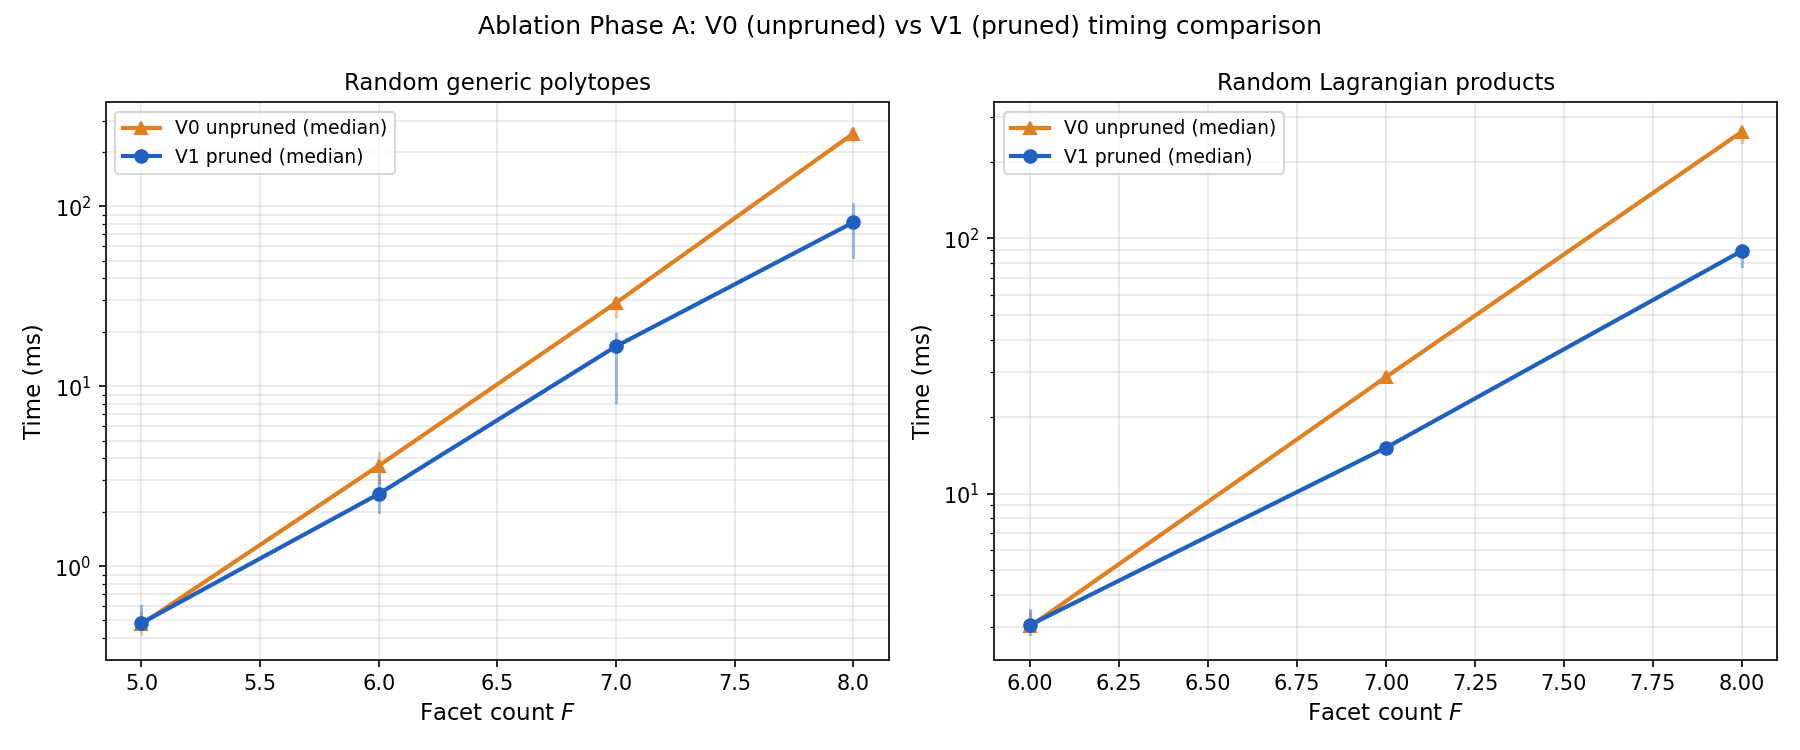
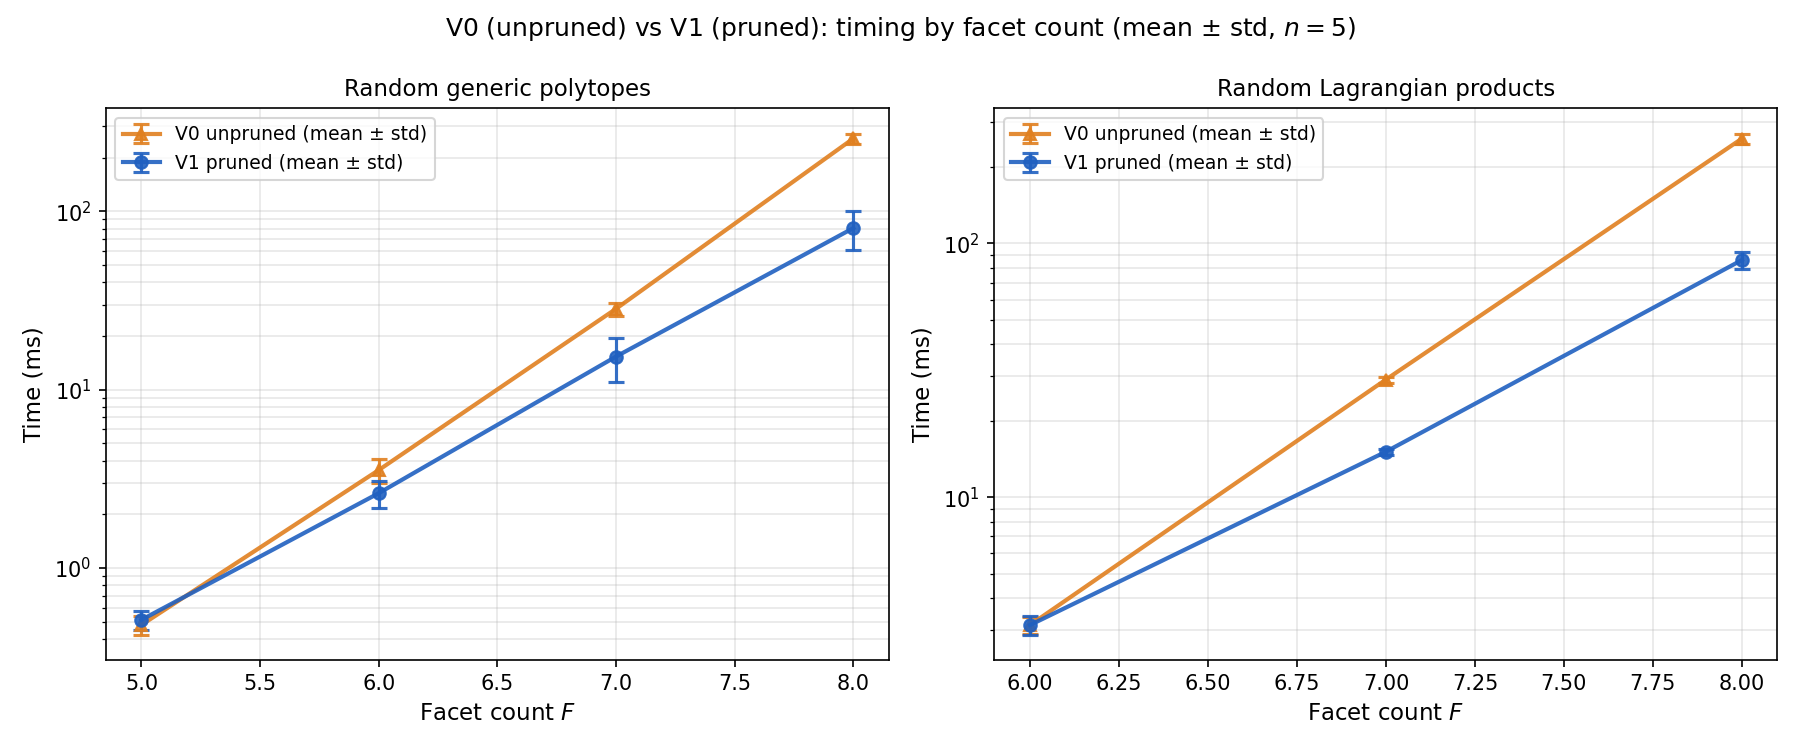
Add ablation Phase A docs: README, complete ablation.tex, appendix-numerical
- experiments/ablation/README.md: standard experiment README with findings,
  speedup table (V0 vs V1), regression cases with expected values, commands
- experiments/ablation/ablation.tex: complete \subsection{Adjacency Pruning:
  Correctness and Speedup} with variant table, dataset table, speedup table
  (mean ms), and timing figure; refs lem:adjacency-constraint + cor:adjacency-pruning
- experiments/ablation/ablation.py: timing plot updated to mean ± std (ddof=1);
  timing table updated to show mean/std columns; figure caption fixed
- experiments/ablation/ablation_timing.png: regenerated with error bars (mean±std)
- thesis/appendix-numerical.tex: new Appendix B "\section{Numerical Implementation
  Notes}" with \input of ablation.tex — renders as Appendix B.1 page 46
- thesis/main.tex: wire in appendix-numerical after appendix-notation

Phase A complete. Phase B (new variants) deferred pending Jörn's review.

diff --git a/experiments/ablation/ablation.py b/experiments/ablation/ablation.py
@@ -144,20 +144,22 @@ def print_timing_table(entries):
         group_f_pairs.add((group, f))
 
     print("\n=== Timing Comparison: V0 (unpruned) vs V1 (pruned) ===")
-    print(f"{'Group':<20} {'F':>3} {'V0 median':>12} {'V1 median':>12} {'Speedup':>8} {'N':>4}")
-    print("-" * 70)
+    print(f"{'Group':<20} {'F':>3} {'V0 mean':>10} {'V0 std':>8} {'V1 mean':>10} {'V1 std':>8} {'Speedup':>8} {'N':>4}")
+    print("-" * 80)
 
     for group, f in sorted(group_f_pairs):
-        t0 = sorted(by_group_f_variant[(group, f, "v0_unpruned")])
-        t1 = sorted(by_group_f_variant[(group, f, "v1_pruned")])
+        t0 = by_group_f_variant[(group, f, "v0_unpruned")]
+        t1 = by_group_f_variant[(group, f, "v1_pruned")]
         n = min(len(t0), len(t1))
         if n == 0:
             continue
-        med0 = float(np.median(t0))
-        med1 = float(np.median(t1))
-        speedup = med0 / med1 if med1 > 0 else float("inf")
+        mean0 = float(np.mean(t0))
+        std0  = float(np.std(t0, ddof=1))
+        mean1 = float(np.mean(t1))
+        std1  = float(np.std(t1, ddof=1))
+        speedup = mean0 / mean1 if mean1 > 0 else float("inf")
         print(
-            f"{group:<20} {f:>3} {med0:>12.1f} {med1:>12.1f} {speedup:>7.2f}x {n:>4}"
+            f"{group:<20} {f:>3} {mean0:>10.1f} {std0:>8.1f} {mean1:>10.1f} {std1:>8.1f} {speedup:>7.2f}x {n:>4}"
         )
 
     print()
@@ -212,27 +214,23 @@ def plot_timing(entries):
             if not f_vals:
                 continue
 
-            medians = [float(np.median(by_variant_f[variant][f])) for f in f_vals]
-            mins = [min(by_variant_f[variant][f]) for f in f_vals]
-            maxs = [max(by_variant_f[variant][f]) for f in f_vals]
+            means = [float(np.mean(by_variant_f[variant][f])) for f in f_vals]
+            stds  = [float(np.std(by_variant_f[variant][f], ddof=1)) for f in f_vals]
 
-            ax.plot(
+            ax.errorbar(
                 f_vals,
-                medians,
+                means,
+                yerr=stds,
                 marker=markers[variant],
                 color=colors[variant],
                 linewidth=2,
                 markersize=6,
-                label=f"{VARIANT_LABELS[variant]} (median)",
+                capsize=4,
+                capthick=1.5,
+                elinewidth=1.5,
+                alpha=0.9,
+                label=f"{VARIANT_LABELS[variant]} (mean ± std)",
             )
-            # Error bars: min/max range
-            for f, med, mn, mx in zip(f_vals, medians, mins, maxs):
-                ax.plot(
-                    [f, f], [mn, mx],
-                    color=colors[variant],
-                    linewidth=1.5,
-                    alpha=0.4,
-                )
 
         ax.set_yscale("log")
         ax.set_xlabel("Facet count $F$", fontsize=11)
@@ -242,7 +240,7 @@ def plot_timing(entries):
         ax.grid(True, alpha=0.3, which="both")
 
     fig.suptitle(
-        "Ablation Phase A: V0 (unpruned) vs V1 (pruned) timing comparison",
+        "V0 (unpruned) vs V1 (pruned): timing by facet count (mean ± std, $n=5$)",
         fontsize=12,
     )
     fig.tight_layout()

diff --git a/experiments/ablation/ablation.tex b/experiments/ablation/ablation.tex
@@ -78,7 +78,8 @@ the hypercube (expected $4.0$) is solved by the LU fast path without SVD.
 All three capacities match their expected values to within $10^{-6}$.
 
 \paragraph{Speedup.}
-Table~\ref{tab:ablation-speedup} shows median computation times.
+Table~\ref{tab:ablation-speedup} shows mean computation times; standard deviations
+are shown in Figure~\ref{fig:ablation-timing}.
 Pruning is neutral at small facet counts (adjacency graph is nearly complete
 for $F \le 6$) and gives approximately $3\times$ speedup at $F = 8$.
 
@@ -90,14 +91,15 @@ for $F \le 6$) and gives approximately $3\times$ speedup at $F = 8$.
 \cmidrule(lr){2-4} \cmidrule(lr){5-7}
 $F$ & V0 (ms) & V1 (ms) & Speedup & V0 (ms) & V1 (ms) & Speedup \\
 \midrule
-5 & 0.5 & 0.5 & $1.0\times$ & -- & -- & -- \\
-6 & 3.6 & 2.5 & $1.4\times$ & 3.0 & 3.1 & $1.0\times$ \\
-7 & 29.1 & 16.7 & $1.7\times$ & 28.6 & 15.1 & $1.9\times$ \\
-8 & 254.0 & 81.5 & $3.1\times$ & 262.2 & 89.5 & $2.9\times$ \\
+5 &   0.5 &   0.5 & $0.9\times$ & --    & --   & --           \\
+6 &   3.5 &   2.6 & $1.4\times$ &  3.1  &  3.1 & $1.0\times$  \\
+7 &  28.4 &  15.3 & $1.9\times$ & 29.0  & 15.1 & $1.9\times$  \\
+8 & 255.8 &  80.5 & $3.2\times$ & 258.2 & 85.9 & $3.0\times$  \\
 \bottomrule
 \end{tabular}
-\caption{Median computation time (ms) for V0~(unpruned) and V1~(pruned),
-  5~samples each per group per facet count.
+\caption{Mean computation time (ms) for V0~(unpruned) and V1~(pruned),
+  $n = 5$ samples per group per facet count; standard deviations shown in
+  Figure~\ref{fig:ablation-timing}.
   Lagrangian products not available at $F = 5$ (minimum $F = 6$ for
   $\triangle{\times}\triangle$).
   Pruning overhead is negligible at $F \le 6$ (dense adjacency graph);
@@ -109,7 +111,7 @@ $F$ & V0 (ms) & V1 (ms) & Speedup & V0 (ms) & V1 (ms) & Speedup \\
 \centering
 \includegraphics[width=0.95\textwidth]{../experiments/ablation/ablation_timing.png}
 \caption{Timing comparison: V0~(unpruned, orange triangles) vs V1~(pruned, blue circles),
-  median with min/max range.
+  mean $\pm$ std ($n=5$).
   Left: random generic polytopes. Right: random Lagrangian products.
   Speedup is negligible at $F \le 6$ and reaches ${\approx}3\times$ at $F = 8$.}
 \label{fig:ablation-timing}

diff --git a/thesis/appendix-numerical.tex b/thesis/appendix-numerical.tex
@@ -37,3 +37,5 @@ appropriate certainty qualifiers.
 
 \subsection{Error Tracking and Final Answer}\label{app:error-tracking}
 \input{appendix-numerical-error-tracking}
+
+\input{../experiments/ablation/ablation}
